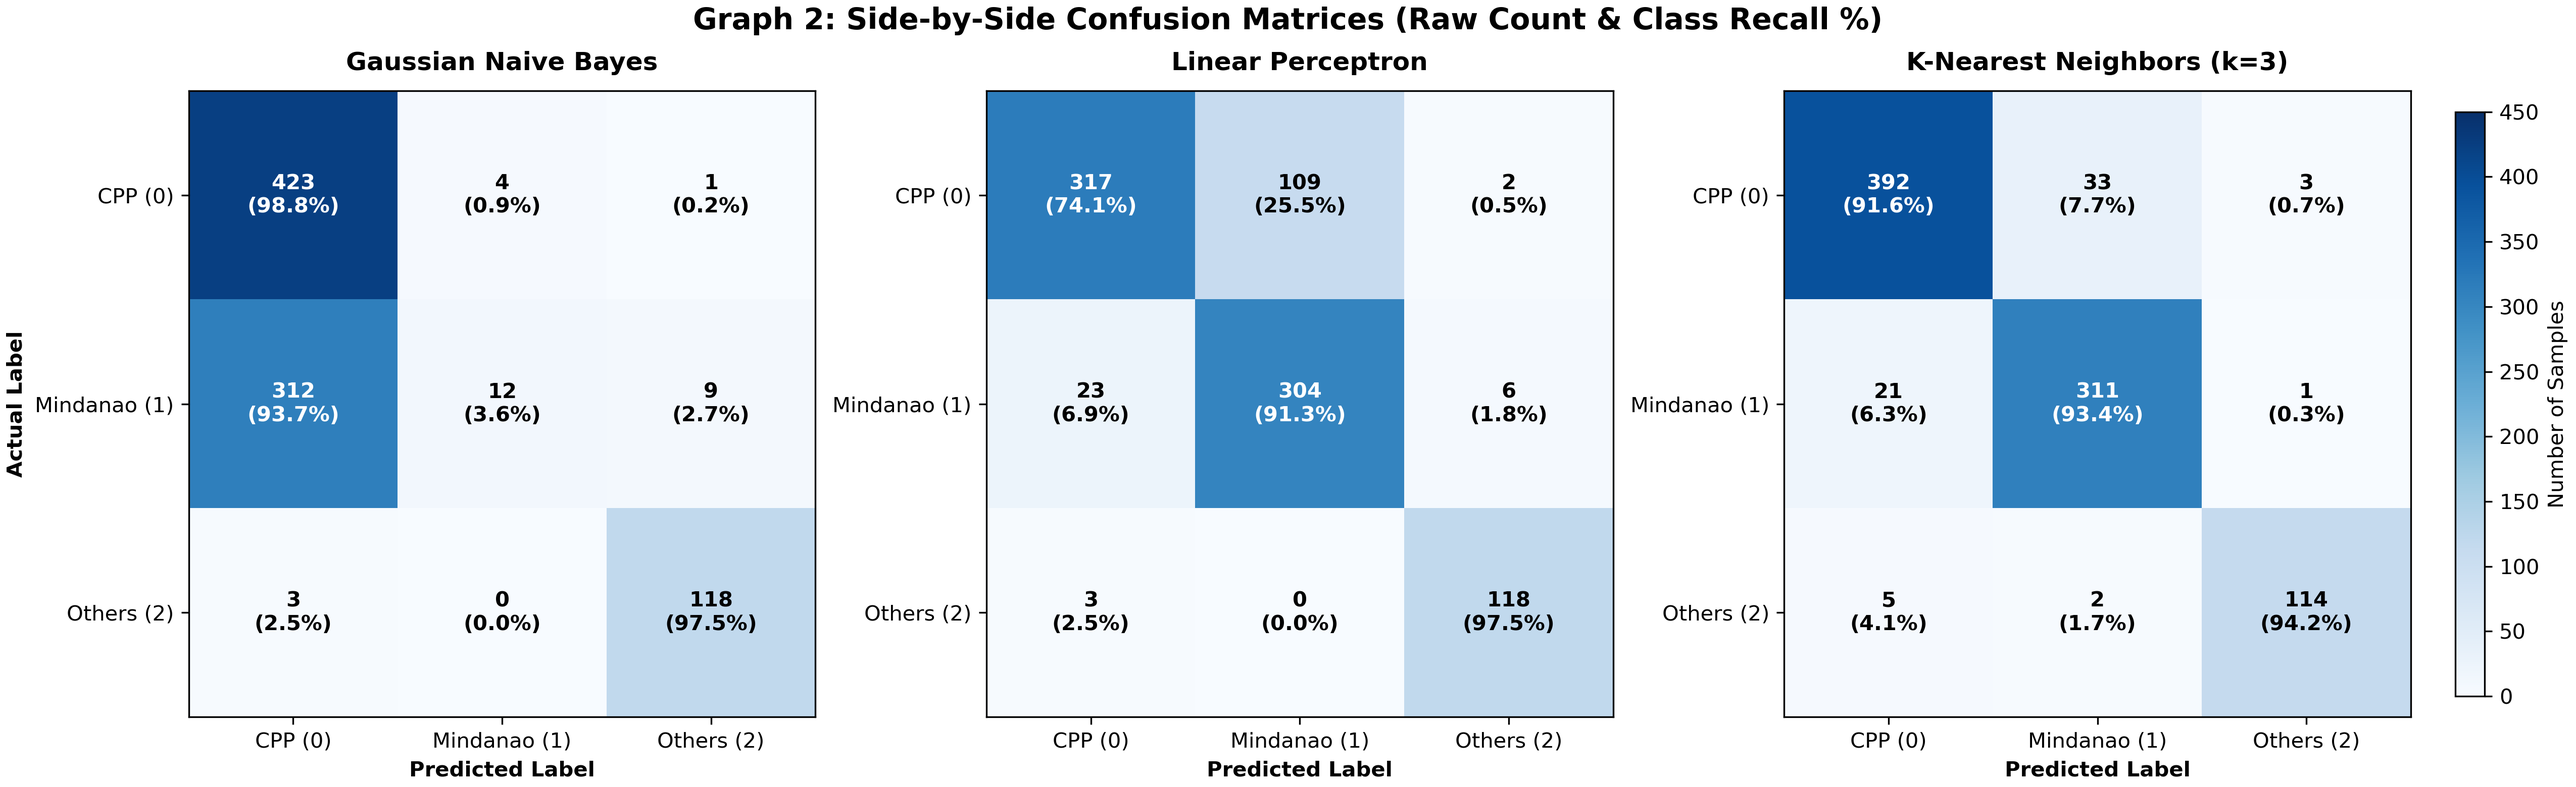
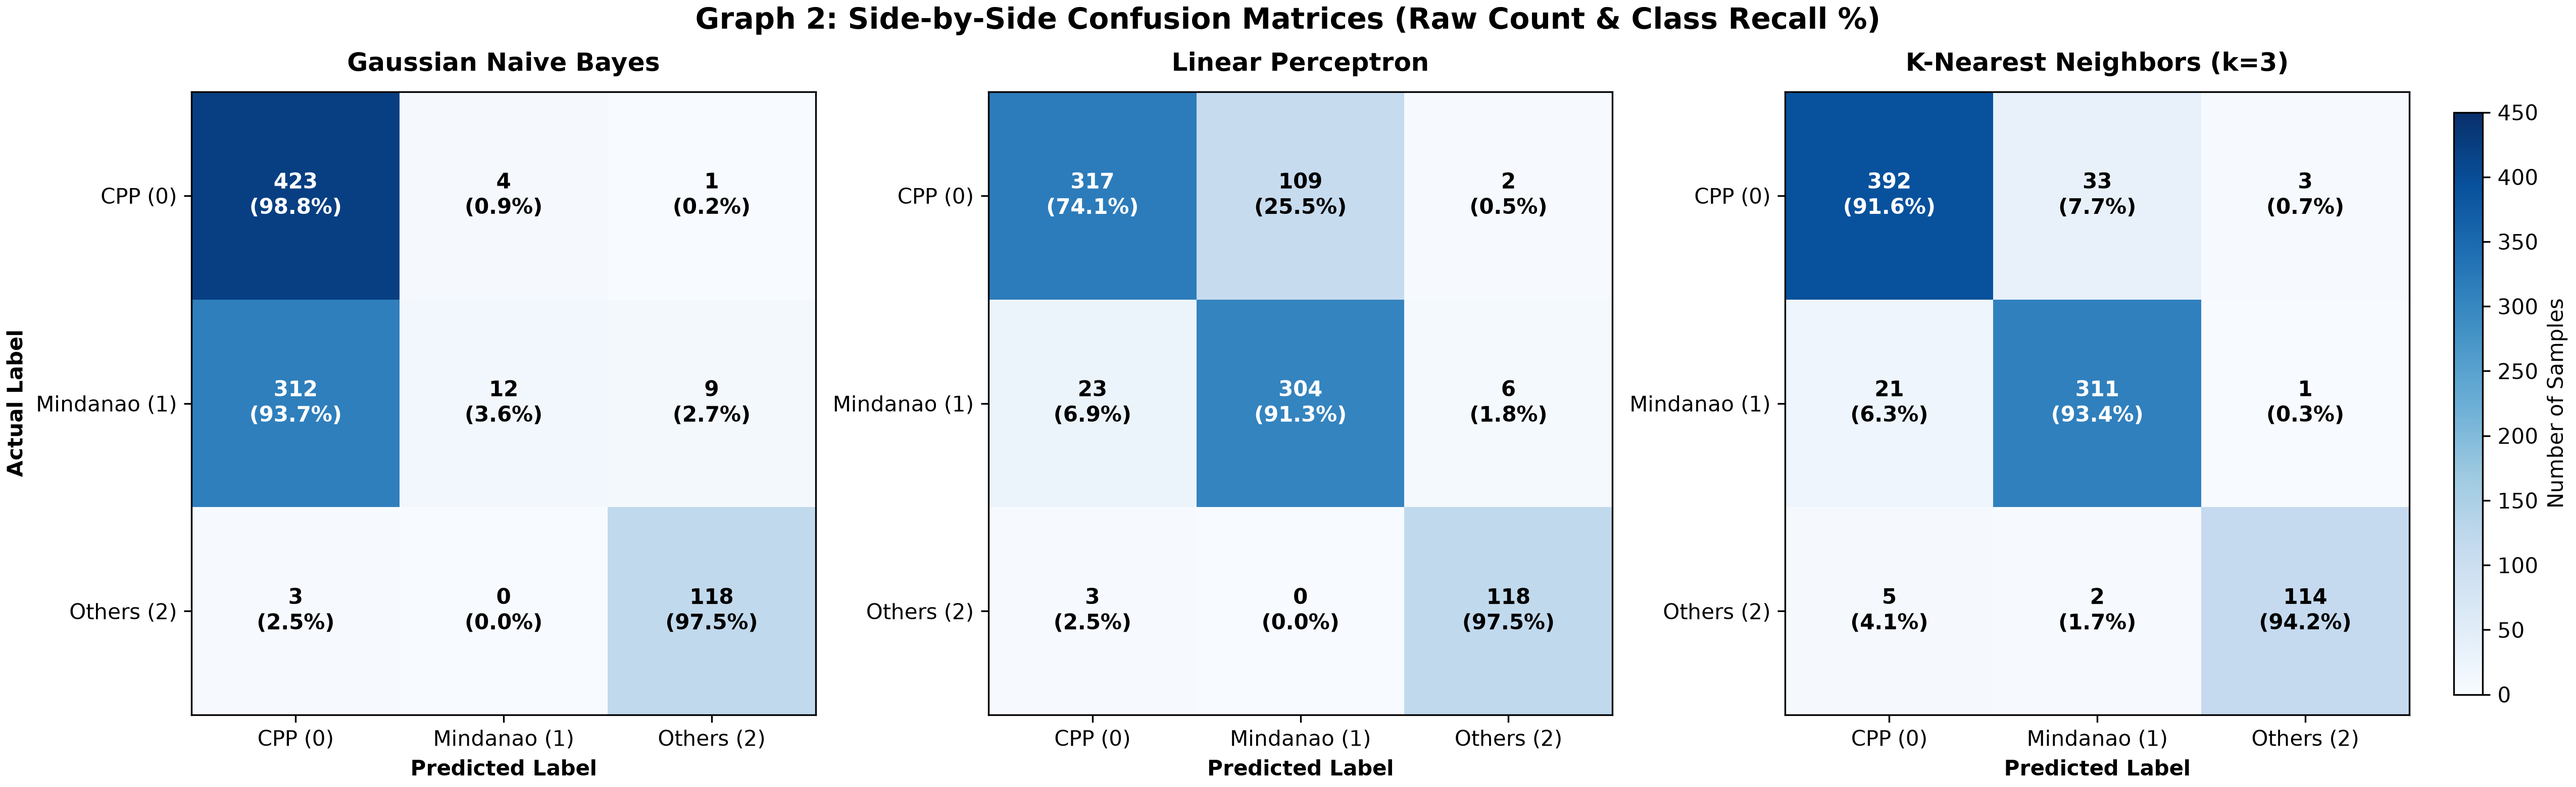
feat: add Graph 1 grouped bar chart to compare_models.py

diff --git a/compare_models.py b/compare_models.py
@@ -343,8 +343,79 @@ def plot_per_class_breakdown(
     print(f"Saved Graph 3 to '{save_path}'.")
 
 
+# plot graph 1: grouped bar chart for overall metrics
+def plot_overall_metrics_comparison(
+    test_actual,
+    model_predictions,
+    save_path="plots/overall_metrics_comparison.png"
+):
+    os.makedirs(os.path.dirname(save_path), exist_ok=True)
+    model_labels = ["Gaussian NB", "Perceptron", "KNN (k=3)"]
+    x = [0, 1, 2]
+    width = 0.25
+
+    # compute macro f1, balanced accuracy, and standard accuracy for each model
+    macro_f1_scores = []
+    balanced_acc_scores = []
+    standard_acc_scores = []
+    total_tests = len(test_actual)
+
+    for i in range(len(model_predictions)):
+        predictions = model_predictions[i][1]
+        macro_f1_scores.append(macrof1.macrof1(test_actual, predictions))
+        balanced_acc_scores.append(balanced_accuracy.balanced_accuracy(test_actual, predictions))
+        standard_acc_scores.append(recall_precision.count_correct(test_actual, predictions) / total_tests)
+
+    # initialize figure and axis
+    fig, ax = plt.subplots(figsize=(10, 6))
+
+    # plot grouped bars for macro f1, balanced accuracy, and standard accuracy
+    bars_f1 = ax.bar(
+        [pos - width for pos in x],
+        macro_f1_scores,
+        width=width,
+        label="Macro F1",
+        color="#4C72B0"
+    )
+    bars_bal = ax.bar(
+        x,
+        balanced_acc_scores,
+        width=width,
+        label="Balanced Accuracy",
+        color="#55A868"
+    )
+    bars_std = ax.bar(
+        [pos + width for pos in x],
+        standard_acc_scores,
+        width=width,
+        label="Standard Accuracy",
+        color="#C44E52"
+    )
+
+    # add data labels above each bar
+    ax.bar_label(bars_f1, fmt="%.3f", padding=3, fontsize=9)
+    ax.bar_label(bars_bal, fmt="%.3f", padding=3, fontsize=9)
+    ax.bar_label(bars_std, fmt="%.3f", padding=3, fontsize=9)
+
+    # configure axis styling, limits, grid, and legend
+    ax.set_title("Graph 1: Overall Metrics Comparison (Macro F1 vs. Balanced Accuracy vs. Standard Accuracy)", fontsize=13, fontweight="bold")
+    ax.set_ylabel("Score", fontsize=11)
+    ax.set_xticks(x)
+    ax.set_xticklabels(model_labels, fontsize=10)
+    ax.set_ylim(0, 1.12)
+    ax.grid(axis="y", linestyle="--", alpha=0.6)
+    ax.legend(loc="upper left", frameon=True)
+
+    # save plot to output path
+    plt.tight_layout()
+    plt.savefig(save_path, dpi=300)
+    plt.close(fig)
+    print(f"Saved Graph 1 to '{save_path}'.")
+
+
 def graph_comparison(test_actual, model_predictions):
     per_class_rows = build_per_class_breakdown(test_actual, model_predictions)
+    plot_overall_metrics_comparison(test_actual, model_predictions)
     plot_confusion_matrices_heatmap(test_actual, model_predictions)
     plot_per_class_breakdown(per_class_rows, model_predictions)
 
